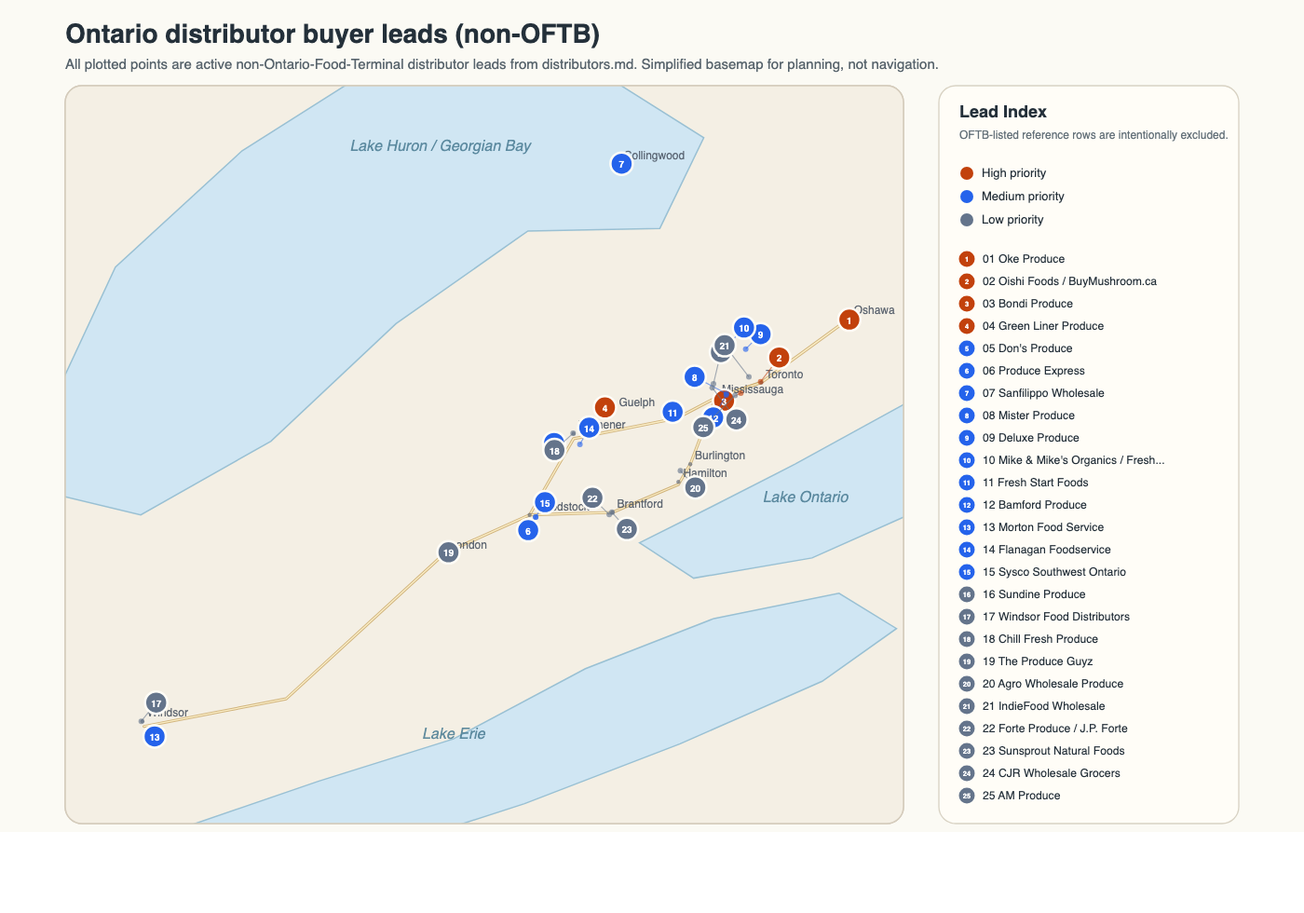
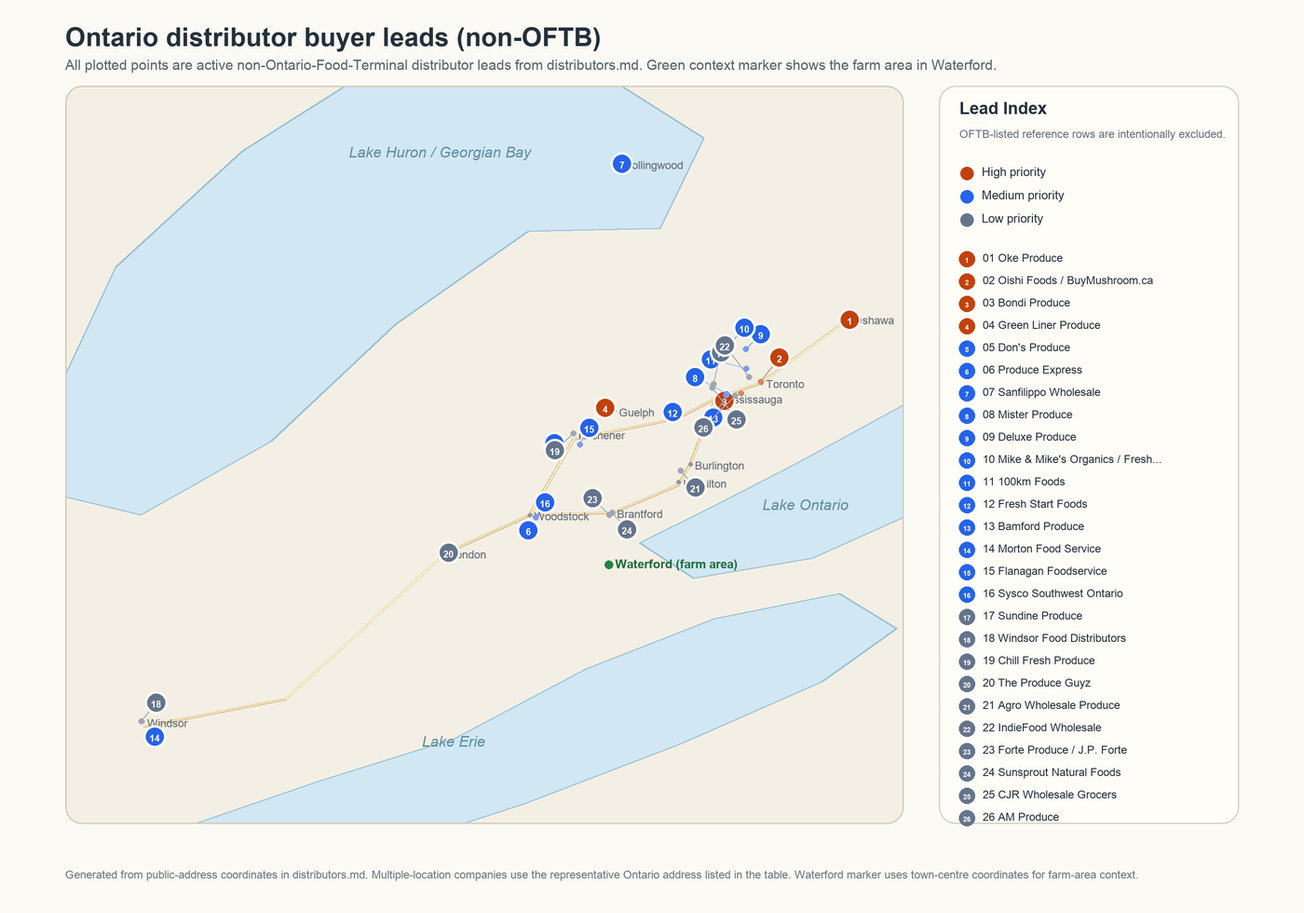
Update distributor map and leads

diff --git a/.agents/skills/make-map-plot/scripts/make_map_plot.py b/.agents/skills/make-map-plot/scripts/make_map_plot.py
@@ -1,15 +1,14 @@
 #!/usr/bin/env python3
 
-"""Render a static SVG map plot from a small JSON config.
+"""Render a static map plot from a small JSON config.
 
 Point records must provide:
 - coordinate: {"lat": number, "lon": number} or [lat, lon]
 - name: display name
 - category: category key used for marker style and legend
 
-The script writes SVG only. Render PNGs from the SVG with a browser or another
-project-approved renderer so the final image can live in the topic resources/
-directory while SVG scratch output stays under temp/.
+The script can write SVG and can write PNG directly with Pillow. Keep final
+document-facing PNGs in topic resources/ and intermediate SVGs under temp/.
 """
 
 from __future__ import annotations
@@ -40,6 +39,10 @@ def escape(value: object) -> str:
 
 def shorten(value: str, width: int) -> str:
     return escape(textwrap.shorten(value, width=width, placeholder="..."))
+
+
+def shorten_plain(value: str, width: int) -> str:
+    return textwrap.shorten(value, width=width, placeholder="...")
 
 
 def mercator_y(lat: float) -> float:
@@ -254,9 +257,18 @@ def render_svg(config: dict[str, Any]) -> str:
         for place in basemap.get("places", []):
             lon, lat = parse_lon_lat_pair(place["coordinate"], "Basemap place")
             x, y = project(lon, lat)
-            parts.append(f'<circle cx="{x:.1f}" cy="{y:.1f}" r="2.2" fill="#6b7280" opacity="0.72" />')
+            radius = float(place.get("radius", 2.2))
+            fill = escape(place.get("fill", "#6b7280"))
+            opacity = float(place.get("opacity", 0.72))
+            label_dx = float(place.get("label_dx", 5))
+            label_dy = float(place.get("label_dy", -5))
+            font_size = int(place.get("font_size", 12))
+            font_weight = escape(place.get("font_weight", "400"))
+            label_fill = escape(place.get("label_fill", "#4b5563"))
+            label_opacity = float(place.get("label_opacity", 0.88))
+            parts.append(f'<circle cx="{x:.1f}" cy="{y:.1f}" r="{radius}" fill="{fill}" opacity="{opacity}" />')
             parts.append(
-                f'<text x="{x + 5:.1f}" y="{y - 5:.1f}" font-family="Helvetica, Arial, sans-serif" font-size="12" fill="#4b5563" opacity="0.88">{escape(place["name"])}</text>'
+                f'<text x="{x + label_dx:.1f}" y="{y + label_dy:.1f}" font-family="Helvetica, Arial, sans-serif" font-size="{font_size}" font-weight="{font_weight}" fill="{label_fill}" opacity="{label_opacity}">{escape(place["name"])}</text>'
             )
 
     for index, point in enumerate(points, start=1):
@@ -324,16 +336,229 @@ def render_svg(config: dict[str, Any]) -> str:
     return "\n".join(parts) + "\n"
 
 
+def render_png(config: dict[str, Any], output_path: Path) -> None:
+    try:
+        from PIL import Image, ImageDraw, ImageFont
+    except ImportError as exc:
+        raise RuntimeError("PNG rendering requires Pillow in the active Python environment") from exc
+
+    points = normalize_points(config["points"])
+    styles = category_styles(points, config)
+    category_order = sorted(styles, key=lambda category: (float(styles[category]["order"]), category))
+
+    scale = int(config.get("png_scale", 2))
+    width = int(config.get("width", 1400))
+    height = int(config.get("height", 980))
+    map_left = int(config.get("map_left", 70))
+    map_top = int(config.get("map_top", 92))
+    map_width = int(config.get("map_width", 900))
+    map_height = int(config.get("map_height", 792))
+    map_bottom = map_top + map_height
+    panel_left = int(config.get("panel_left", map_left + map_width + 38))
+    panel_top = int(config.get("panel_top", map_top))
+    panel_width = int(config.get("panel_width", width - panel_left - 70))
+    panel_height = int(config.get("panel_height", map_height))
+
+    def s(value: float) -> int:
+        return int(round(value * scale))
+
+    def color(value: object, alpha: float = 1.0) -> tuple[int, int, int, int]:
+        text = str(value).strip()
+        if text.startswith("#"):
+            text = text[1:]
+        if len(text) == 3:
+            text = "".join(ch * 2 for ch in text)
+        red = int(text[0:2], 16)
+        green = int(text[2:4], 16)
+        blue = int(text[4:6], 16)
+        return red, green, blue, max(0, min(255, int(round(alpha * 255))))
+
+    def font(size: int, weight: str = "400", italic: bool = False) -> Any:
+        candidates = []
+        if weight in {"700", "bold", "Bold"} and italic:
+            candidates = [
+                "/System/Library/Fonts/Supplemental/Arial Bold Italic.ttf",
+                "/Library/Fonts/Arial Bold Italic.ttf",
+            ]
+        elif weight in {"700", "bold", "Bold"}:
+            candidates = [
+                "/System/Library/Fonts/Supplemental/Arial Bold.ttf",
+                "/Library/Fonts/Arial Bold.ttf",
+                "/System/Library/Fonts/Supplemental/Arial.ttf",
+            ]
+        elif italic:
+            candidates = [
+                "/System/Library/Fonts/Supplemental/Arial Italic.ttf",
+                "/Library/Fonts/Arial Italic.ttf",
+                "/System/Library/Fonts/Supplemental/Arial.ttf",
+            ]
+        else:
+            candidates = [
+                "/System/Library/Fonts/Supplemental/Arial.ttf",
+                "/Library/Fonts/Arial.ttf",
+            ]
+        for candidate in candidates:
+            try:
+                return ImageFont.truetype(candidate, s(size))
+            except OSError:
+                continue
+        return ImageFont.load_default(size=s(size))
+
+    def text_size(draw: Any, text: str, text_font: Any) -> tuple[float, float]:
+        bbox = draw.textbbox((0, 0), text, font=text_font)
+        return bbox[2] - bbox[0], bbox[3] - bbox[1]
+
+    lats = [float(point["lat"]) for point in points]
+    lons = [float(point["lon"]) for point in points]
+    bounds = config.get("bounds")
+    if isinstance(bounds, dict):
+        lat_min = float(bounds["lat_min"])
+        lat_max = float(bounds["lat_max"])
+        lon_min = float(bounds["lon_min"])
+        lon_max = float(bounds["lon_max"])
+    else:
+        lat_min = min(lats) - float(config.get("lat_padding", 0.35))
+        lat_max = max(lats) + float(config.get("lat_padding_top", 0.30))
+        lon_min = min(lons) - float(config.get("lon_padding", 0.45))
+        lon_max = max(lons) + float(config.get("lon_padding_right", 0.32))
+
+    merc_min = mercator_y(lat_min)
+    merc_max = mercator_y(lat_max)
+
+    def project(lon: float, lat: float) -> tuple[float, float]:
+        x = map_left + (lon - lon_min) * map_width / (lon_max - lon_min)
+        y = map_bottom - (mercator_y(lat) - merc_min) * map_height / (merc_max - merc_min)
+        return x, y
+
+    image = Image.new("RGB", (s(width), s(height)), "#fbfaf4")
+    draw = ImageDraw.Draw(image)
+
+    title_font = font(28, "700")
+    subtitle_font = font(15)
+    draw.text((s(map_left), s(24)), str(config.get("title", "Map plot")), font=title_font, fill="#24303a")
+    subtitle = config.get("subtitle")
+    if subtitle:
+        draw.text((s(map_left), s(61)), str(subtitle), font=subtitle_font, fill="#57636c")
+
+    map_layer = Image.new("RGBA", (s(width), s(height)), (0, 0, 0, 0))
+    map_draw = ImageDraw.Draw(map_layer)
+    map_box = [s(map_left), s(map_top), s(map_left + map_width), s(map_top + map_height)]
+    map_draw.rounded_rectangle(map_box, radius=s(18), fill=color("#f4efe4"), outline=color("#d4cbbb"), width=s(1.5))
+
+    basemap = config.get("basemap", {})
+    if isinstance(basemap, dict):
+        for polygon in basemap.get("polygons", []):
+            coords = [(s(x), s(y)) for x, y in [project(*parse_lon_lat_pair(point, "Basemap polygon point")) for point in polygon["points"]]]
+            map_draw.polygon(coords, fill=color(polygon.get("fill", "#cfe6f4"), float(polygon.get("opacity", 0.96))))
+            map_draw.line(coords + [coords[0]], fill=color(polygon.get("stroke", "#96bfd3")), width=s(float(polygon.get("stroke_width", 1.5))), joint="curve")
+
+        for line in basemap.get("lines", []):
+            coords = [(s(x), s(y)) for x, y in [project(*parse_lon_lat_pair(point, "Basemap line point")) for point in line["points"]]]
+            map_draw.line(coords, fill=color(line.get("stroke", "#c7a35f"), float(line.get("opacity", 0.78))), width=s(float(line.get("stroke_width", 3.2))), joint="curve")
+            if "inner_stroke" in line:
+                map_draw.line(coords, fill=color(line["inner_stroke"], float(line.get("inner_opacity", 0.9))), width=s(float(line.get("inner_stroke_width", 1.3))), joint="curve")
+
+        for label in basemap.get("labels", []):
+            lon, lat = parse_lon_lat_pair(label["coordinate"], "Basemap label")
+            x, y = project(lon, lat)
+            label_font = font(int(label.get("font_size", 16)), italic=label.get("font_style", "italic") == "italic")
+            label_text = str(label["name"])
+            label_width, label_height = text_size(map_draw, label_text, label_font)
+            map_draw.text((s(x) - label_width / 2, s(y) - label_height / 2), label_text, font=label_font, fill=color(label.get("fill", "#4a7c93"), float(label.get("opacity", 0.86))))
+
+        for place in basemap.get("places", []):
+            lon, lat = parse_lon_lat_pair(place["coordinate"], "Basemap place")
+            x, y = project(lon, lat)
+            radius = float(place.get("radius", 2.2))
+            place_fill = place.get("fill", "#6b7280")
+            opacity = float(place.get("opacity", 0.72))
+            label_dx = float(place.get("label_dx", 5))
+            label_dy = float(place.get("label_dy", -5))
+            font_size = int(place.get("font_size", 12))
+            font_weight = str(place.get("font_weight", "400"))
+            label_fill = place.get("label_fill", "#4b5563")
+            label_opacity = float(place.get("label_opacity", 0.88))
+            map_draw.ellipse([s(x - radius), s(y - radius), s(x + radius), s(y + radius)], fill=color(place_fill, opacity))
+            map_draw.text((s(x + label_dx), s(y + label_dy)), str(place["name"]), font=font(font_size, font_weight), fill=color(label_fill, label_opacity))
+
+    for index, point in enumerate(points, start=1):
+        actual_x, actual_y = project(float(point["lon"]), float(point["lat"]))
+        marker_x = actual_x + float(point["marker_dx"])
+        marker_y = actual_y + float(point["marker_dy"])
+        fill = styles[str(point["category"])]["fill"]
+        if abs(marker_x - actual_x) > 0.1 or abs(marker_y - actual_y) > 0.1:
+            map_draw.line((s(actual_x), s(actual_y), s(marker_x), s(marker_y)), fill=color(fill, 0.58), width=s(1.1))
+            map_draw.ellipse([s(actual_x - 3), s(actual_y - 3), s(actual_x + 3), s(actual_y + 3)], fill=color(fill, 0.62))
+        map_draw.ellipse([s(marker_x - 12), s(marker_y - 12), s(marker_x + 12), s(marker_y + 12)], fill=color("#fffdf7"))
+        map_draw.ellipse([s(marker_x - 9.5), s(marker_y - 9.5), s(marker_x + 9.5), s(marker_y + 9.5)], fill=color(fill))
+        number_font = font(10, "700")
+        number = str(index)
+        number_width, number_height = text_size(map_draw, number, number_font)
+        map_draw.text((s(marker_x) - number_width / 2, s(marker_y) - number_height / 2), number, font=number_font, fill="#ffffff")
+
+    mask = Image.new("L", (s(width), s(height)), 0)
+    mask_draw = ImageDraw.Draw(mask)
+    mask_draw.rounded_rectangle(map_box, radius=s(18), fill=255)
+    image = Image.composite(Image.alpha_composite(image.convert("RGBA"), map_layer).convert("RGB"), image, mask)
+    draw = ImageDraw.Draw(image)
+    draw.rounded_rectangle(map_box, radius=s(18), outline="#d4cbbb", width=s(1.5))
+
+    panel_box = [s(panel_left), s(panel_top), s(panel_left + panel_width), s(panel_top + panel_height)]
+    draw.rounded_rectangle(panel_box, radius=s(18), fill="#fffdf7", outline="#d8d2c3", width=s(1.3))
+    draw.text((s(panel_left + 22), s(panel_top + 14)), str(config.get("index_title", "Index")), font=font(18, "700"), fill="#24303a")
+    index_note = config.get("index_note")
+    if index_note:
+        draw.text((s(panel_left + 22), s(panel_top + 45)), str(index_note), font=font(12), fill="#64717a")
+
+    legend_y = panel_top + 94
+    for offset, category in enumerate(category_order):
+        y = legend_y + offset * 25
+        style = styles[category]
+        draw.ellipse([s(panel_left + 23), s(y - 7), s(panel_left + 37), s(y + 7)], fill=style["fill"])
+        draw.text((s(panel_left + 46), s(y - 9)), str(style["label"]), font=font(13), fill="#24303a")
+
+    list_y = panel_top + 190
+    row_height = float(config.get("index_row_height", 24))
+    max_label_width = int(config.get("index_label_width", 42))
+    for index, point in enumerate(points, start=1):
+        y = list_y + (index - 1) * row_height
+        style = styles[str(point["category"])]
+        label = shorten_plain(f'{index:02d} {point["name"]}', max_label_width)
+        draw.ellipse([s(panel_left + 21.5), s(y - 12.5), s(panel_left + 38.5), s(y + 4.5)], fill=style["fill"])
+        item_font = font(7.5, "700")
+        index_text = str(index)
+        index_width, index_height = text_size(draw, index_text, item_font)
+        draw.text((s(panel_left + 30) - index_width / 2, s(y - 4) - index_height / 2), index_text, font=item_font, fill="#ffffff")
+        draw.text((s(panel_left + 47), s(y - 12)), label, font=font(12), fill="#24303a")
+
+    footer = config.get("footer")
+    if footer:
+        draw.text((s(map_left), s(height - 48)), str(footer), font=font(12), fill="#68757d")
+
+    if scale != 1:
+        image = image.resize((width, height), Image.Resampling.LANCZOS)
+    output_path.parent.mkdir(parents=True, exist_ok=True)
+    image.save(output_path)
+
+
 def main() -> None:
-    parser = argparse.ArgumentParser(description="Render a generic category map plot SVG from JSON.")
+    parser = argparse.ArgumentParser(description="Render a generic category map plot from JSON.")
     parser.add_argument("config", type=Path, help="Path to map config JSON")
-    parser.add_argument("--output-svg", type=Path, required=True, help="SVG path to write")
+    parser.add_argument("--output-svg", type=Path, help="SVG path to write")
+    parser.add_argument("--output-png", type=Path, help="PNG path to write using Pillow")
     args = parser.parse_args()
 
+    if not args.output_svg and not args.output_png:
+        parser.error("At least one of --output-svg or --output-png is required")
+
     config = load_config(args.config)
-    args.output_svg.parent.mkdir(parents=True, exist_ok=True)
-    args.output_svg.write_text(render_svg(config), encoding="utf-8")
-    print(f"Wrote {args.output_svg}")
+    if args.output_svg:
+        args.output_svg.parent.mkdir(parents=True, exist_ok=True)
+        args.output_svg.write_text(render_svg(config), encoding="utf-8")
+        print(f"Wrote {args.output_svg}")
+    if args.output_png:
+        render_png(config, args.output_png)
+        print(f"Wrote {args.output_png}")
 
 
 if __name__ == "__main__":

diff --git a/distribution/distributors.md b/distribution/distributors.md
@@ -30,6 +30,7 @@ Map note: this is an Ontario-only rough map of the active non-OFTB distributor l
 | [Mister Produce](https://www.misterproduce.com/)                                                                    | Medium         | [Map](https://www.google.com/maps/search/?api=1&query=Mister+Produce+1290+Blundell+Road+Mississauga+ON); 1290 Blundell Road, Mississauga, ON L4Y 1M5 ([source](https://www.misterproduce.com/contact-us/))                                                                                                      | Ontario foodservice market ([source](https://www.misterproduce.com/))                                                                                                                | One of Ontario's largest privately owned fresh food distributors serving restaurants, hotels, caterers, schools, universities, sports venues, and institutions ([source](https://www.misterproduce.com/))                                                                                                                                                                         | White, brown, button, shiitake, and portobello from the public home-delivery product list PDF ([source](https://www.misterproduce.com/wp-content/uploads/2024/08/MisterProduce_HomeDelivery_ProductsList.pdf))                                                         | 416-252-9191                   | `misterproduce@ica.net`                                                 |                                                                                                                                                                                               | Sales will forward me to Zack. They currently buy from OFT. Asked their volume, she said she don't know.<br>Camille (437-248-1992) replied me and give me Zack's email (Zgoodma@gmail.com), who handles mushroom purchases                                                                                                                                                                                                                                                                                                    |
 | [Deluxe Produce](https://deluxeproduce.com/)                                                                        | Medium         | [Map](https://www.google.com/maps/search/?api=1&query=Deluxe+Produce+40+Magnetic+Drive+Toronto+ON); 40 Magnetic Drive, Unit 1, Toronto, ON M3J 2C4 ([source](https://deluxeproduce.com/))                                                                                                                       | GTA ([source](https://deluxeproduce.com/))                                                                                                                                           | B2B wholesale produce supplier serving restaurants, hotels, caterers, schools, healthcare, and grocery chains with daily GTA delivery ([source](https://deluxeproduce.com/))                                                                                                                                                                                                      | Cremini mushrooms are publicly named on the homepage SKU stream; no broader public mushroom assortment page found ([source](https://deluxeproduce.com/))                                                                                                               | 416-356-4420                   | `orderdesk@deluxeproduce.com`; `info@deluxeproduce.com`                 |                                                                                                                                                                                               | called tuesday and friday (may 1) no one picking up                                                                                                                                                                                                                                                                                                                                                                                                                                                                           |
 | [Mike & Mike's Organics / Fresh Direct Produce Group](https://mikeandmikes.com/contact-us/)                         | Medium         | [Map](https://www.google.com/maps/search/?api=1&query=Mike+and+Mike%27s+Organics+1+Royal+Gate+Blvd+Woodbridge+ON); 1 Royal Gate Blvd, Unit F, Woodbridge, ON L4L 8Z7 ([source](https://mikeandmikes.com/contact-us/))                                                                                           | Ontario retail, regional retail, distribution centre, independent natural-food, home-delivery, and foodservice customers ([source](https://ca.linkedin.com/company/mike-and-mike-s)) | Importer, wholesaler, and distributor of organic and conventional fresh fruits and vegetables; acquired by Fresh Direct Produce Group ([source](https://peprofessional.com/2020/07/hkw-closes-third-fresh-direct-add/))                                                                                                                                                           | Fresh Direct's public catalog has a CompOrg shiitake 6x113 g SKU, but no current Mike & Mike's Ontario shiitake SKU was found on public pages checked ([source](https://freshdirectproduce.com/product/comporg-mushrooms-shiitake-6x113g-2/))                          | 416-987-2772                   | `info@mikeandmikes.com`                                                 | New Apr 28 lead. Use as an Ontario organic retail-distribution call, not as a confirmed fresh shiitake buyer yet.                                                                             | Gonna skip this because it's import and organic                                                                                                                                                                                                                                                                                                                                                                                                                                                                               |
+| [100km Foods](https://wholesale.100kmfoods.com/)                                                                    | Medium         | [Map](https://www.google.com/maps/search/?api=1&query=100km+Foods+19+Colville+Road+Toronto+ON); 19 Colville Road, Toronto, ON M6M 2Y2 ([source](https://supportontariomade.ca/retailer/toronto/100km-foods-inc))                                                                                                  | Toronto, GTA, Golden Horseshoe, Kitchener/Cambridge/Waterloo, and broader Southern Ontario delivery / pickup network ([source](https://wholesale.100kmfoods.com/about-us))          | Wholesale local-food distributor connecting chefs, restaurants, hotels, sports teams, retail stores, and other food businesses with Ontario farmers and producers ([source](https://wholesale.100kmfoods.com/contactus))                                                                                                                                                          | Public site has a Mushrooms category, but no visible mushroom SKUs were listed when checked; supplier interest needs confirmation ([source](https://wholesale.100kmfoods.com/mushrooms))                                                                               | 416-203-2164 ext. 220          | `info@100kmfoods.com`                                                   | New May 1 lead. Strong local-food channel fit; ask whether they currently buy shiitake/oyster and whether Waterford / Norfolk pickup is possible.                                             |                                                                                                                                                                                                                                                                                                                                                                                                                                                                                                                               |
 | [Fresh Start Foods](https://www.freshstartfoods.com/service-area/)                                                  | Medium         | [Map](https://www.google.com/maps/search/?api=1&query=Fresh+Start+Foods+2705+Durante+Way+Milton+ON); 2705 Durante Way, Milton, ON L9T 5J1; Ontario also has London and Ottawa locations ([source](https://www.freshstartfoods.com/service-area/))                                                               | National produce network with Ontario locations in Milton, London, and Ottawa ([source](https://www.freshstartfoods.com/service-area/))                                              | Fresh produce supplier for foodservice and retail customers; sources whole and fresh-cut produce locally and globally ([source](https://www.freshstartfoods.com/wholesale-produce/))                                                                                                                                                                                              | No public shiitake or mushroom assortment found on pages checked; general whole produce sourcing only ([source](https://www.freshstartfoods.com/wholesale-produce/))                                                                                                   | 905-878-9000                   | `fsfemilton@freshstartfoods.com`                                        | New Apr 28 lead. Worth a buyer-development call because Milton and London locations bracket Brantford/Waterford, but mushroom fit is unconfirmed.                                             | called 5.1, weird that their phone line is broken?                                                                                                                                                                                                                                                                                                                                                                                                                                                                            |
 | [Gordon Food Service Ontario](https://gfs.ca/en-ca/our-markets/locations/)                                          | Medium         | [Map](https://www.google.com/maps/search/?api=1&query=Gordon+Food+Service+2999+James+Snow+Parkway+Milton+ON); Milton DC: 2999 James Snow Parkway, Milton, ON L9T 5G4; Ajax DC: 200 Salem Rd North, Ajax, ON L1Z 1G1 ([source](https://gfs.ca/en-ca/our-markets/locations/))                                     | Ontario foodservice distribution from Milton and Ajax; part of a national Canadian distribution network ([source](https://gfs.ca/en-ca/our-markets/locations/))                      | Broadline foodservice distributor serving restaurants, health care, universities, hotels, stadiums, and other foodservice operations; Fresh Start Foods is a Gordon Food Service Specialty Company for produce ([GFS source](https://gfs.ca/en-ca/delivery/ontario-milton/); [Fresh Start source](https://gfs.ca/en-ca/products-services/specialty-companies/fresh-start-foods/)) | No public Ontario fresh shiitake or oyster SKU found on pages checked; GFS publishes culinary content around shiitake, oyster, maitake, and other mushrooms, but buyer route likely needs confirmation ([source](https://gfs.ca/en-ca/ideas/make-room-for-mushrooms/)) | 905-864-3700 / 866-408-0123    | `ont-info@gfs.ca`                                                       | New May 1 broadline lead. Treat as a supplier-onboarding call and ask whether Ontario fresh mushrooms are bought through GFS directly, Fresh Start Foods, or another approved produce vendor. |                                                                                                                                                                                                                                                                                                                                                                                                                                                                                                                               |
 | [Bamford Produce](https://bamfordproduce.com/)                                                                      | Medium         | [Map](https://www.google.com/maps/search/?api=1&query=Bamford+Produce+2501-A+Stanfield+Road+Mississauga+ON); 2501-A Stanfield Rd, Mississauga, ON L4Y 1R6 ([source](https://bamfordproduce.com/))                                                                                                               | Delivery network bordered by London west, Kingston east, Bracebridge north, and Niagara Falls south ([source](https://bamfordproduce.com/))                                          | Large Ontario produce distributor selling conventional and organic produce by case, piece, and processed format; partners with local growers for restaurant and foodservice clients ([source](https://bamfordproduce.com/local/))                                                                                                                                                 | Brown / cremini, sliced, oyster, and portobello mushrooms are listed; no public shiitake SKU found on pages checked ([source](https://bamfordproduce.com/our-products/))                                                                                               | 905-615-9400 / 1-888-EAT-FRESH | `orders@bamfordproduce.com`                                             | New Apr 28 Southwestern Ontario scan lead. Good foodservice produce fit and confirmed mushroom category, but shiitake availability needs buyer confirmation.                                  | called 5.1 no one answers                                                                                                                                                                                                                                                                                                                                                                                                                                                                                                     |
@@ -78,11 +79,12 @@ Reference only under the current Gambles relationship.
   - Sysco Southwest Ontario
   - Sanfilippo Wholesale
   - Mike & Mike's Organics / Fresh Direct Produce Group
+  - 100km Foods
   - Fresh Start Foods
   - Gordon Food Service Ontario
   - Mister Produce
   - Deluxe Produce
-  Reason: These remain viable non-OFTB Ontario distributor leads, but the fit is more conditional: Don's, Produce Express, Morton, Flanagan, Sysco, and Gordon Food Service have strong Southwestern Ontario or Ontario foodservice coverage but need mushroom SKU or supplier-program confirmation, Bamford has public mushroom category evidence but not shiitake, Sanfilippo has an existing nearby mushroom source, Mike & Mike's and Fresh Start are broader produce distributors, and Mister / Deluxe need live SKU confirmation.
+  Reason: These remain viable non-OFTB Ontario distributor leads, but the fit is more conditional: Don's, Produce Express, Morton, Flanagan, Sysco, and Gordon Food Service have strong Southwestern Ontario or Ontario foodservice coverage but need mushroom SKU or supplier-program confirmation, Bamford has public mushroom category evidence but not shiitake, Sanfilippo has an existing nearby mushroom source, 100km Foods is a strong local-food channel but needs live mushroom demand confirmation, Mike & Mike's and Fresh Start are broader produce distributors, and Mister / Deluxe need live SKU confirmation.
 - Wave 3:
   - IndieFood Wholesale
   - Sundine Produce
@@ -109,6 +111,7 @@ Reference only under the current Gambles relationship.
 
 These are the closest distributor-style buyer models in this Ontario-only research set: companies with Ontario locations that source from growers or suppliers, then resell into restaurants, grocery, retail, or foodservice.
 
+- [100km Foods](https://wholesale.100kmfoods.com/): Toronto local-food distributor connecting Ontario farmers and producers with chefs, restaurants, hotels, sports teams, retail stores, and other food businesses; strong channel fit, but current shiitake/oyster demand needs confirmation.
 - [Agro Wholesale Produce](https://www.yellowpages.ca/bus/Ontario/Burlington/Agro-Wholesale-Produce-Ltd/3611900.html): Burlington/Hamilton-area fruit and vegetable wholesaler for restaurants and institutions; mushroom fit needs confirmation.
 - [Bamford Produce](https://bamfordproduce.com/): Ontario produce distributor with London-to-Niagara coverage and public oyster / mainstream mushroom evidence.
 - [Bondi Produce](https://bondiproduce.com/): Chef-focused Ontario foodservice distributor with public mushroom mentions in market reports.
@@ -141,7 +144,7 @@ These are the closest distributor-style buyer models in this Ontario-only resear
 
 - Prioritize Ontario distributor buyers with current public mushroom listings or recent public market mentions: Oke, J.E. Russell, Oishi, Gambles, Bondi, Green Liner, and Sanfilippo.
 - For Southwestern Ontario distributor outreach, call Don's Produce, Produce Express, Morton Food Service, Flanagan Foodservice, Bamford Produce, and Sysco Southwest Ontario. Lococo's and Nizam Produce are tracked in [supermarkets.md](supermarkets.md). Treat Forte Produce, Sunsprout, Agro Wholesale, Windsor Food Distributors, Chill Fresh Produce, The Produce Guyz, and CJR as quick-verification calls rather than full sales pursuits.
-- Confirm live SKU availability before outreach where the current public mushroom evidence is generic, indirect, or group-level only, especially for Don's Produce, Produce Express, Fresh Start Foods, Mister Produce, Deluxe Produce, Mike & Mike's / Fresh Direct Produce Group, Dom Amodeo Produce, F.G. Lister, Fresh Advancement, and Rite-Pak Produce.
+- Confirm live SKU availability before outreach where the current public mushroom evidence is generic, indirect, or group-level only, especially for Don's Produce, Produce Express, 100km Foods, Fresh Start Foods, Mister Produce, Deluxe Produce, Mike & Mike's / Fresh Direct Produce Group, Dom Amodeo Produce, F.G. Lister, Fresh Advancement, and Rite-Pak Produce.
 - Confirm vendor-onboarding requirements before pitching broadline distributors such as Sysco, Flanagan, Morton, and Gordon/Fresh Start channels; they may need insurance, food-safety audits, product specs, UPC/case specs, and approved-supplier paperwork before a local mushroom trial.
 - Treat AM Produce as a lower-confidence lead until you can confirm a current mushroom assortment with their sales team.
 - Treat IndieFood as a distribution / marketplace channel rather than a standard distributor buyer.

diff --git a/.agents/skills/make-map-plot/SKILL.md b/.agents/skills/make-map-plot/SKILL.md
@@ -13,7 +13,7 @@ Create practical map plots for this farm research repository. Keep final user-fa
 
 1. Identify the document, map purpose, and inclusion rules before plotting. For buyer lead maps, respect each file's scope rules, exclusions, and current relationship constraints.
 2. Put durable point/config data in the topic directory's `resources/` subdirectory. Each point must provide `coordinate`, `name`, and `category`.
-3. Use `scripts/make_map_plot.py` from this skill to render a temporary SVG from the JSON config. Store only durable, document-facing assets in `resources/`, usually a PNG referenced by markdown. Store intermediate SVGs, geocode caches, downloaded geographic data, render screenshots, and raw scratch outputs under `temp/<topic>/<plot-name>/`.
+3. Use `scripts/make_map_plot.py` from this skill to render the JSON config. Prefer its Pillow-backed `--output-png` path for durable PNGs. Use `--output-svg` when an editable/intermediate SVG is useful. Store only durable, document-facing assets in `resources/`, usually a PNG referenced by markdown. Store intermediate SVGs, geocode caches, downloaded geographic data, render screenshots, and raw scratch outputs under `temp/<topic>/<plot-name>/`.
 4. Do not invent locations. Use source addresses, cached coordinates, documented manual fallback coordinates, or current geocoding. If network geocoding is needed and sandbox DNS fails, request escalation for that command.
 5. Include a real geographic context layer: a basemap, simplified water/land/city/road layer, or other meaningful geography. A bare latitude-longitude grid is not enough unless the user explicitly asks for one.
 6. For dense maps, use numbered markers plus a side index instead of overlapping long labels. Include a legend and a short note that the map is for planning, not navigation.
@@ -53,7 +53,15 @@ Commit the generator, `resources/` assets, and markdown changes when appropriate
 
 ## Rendering
 
-First render SVG from config:
+Render a PNG directly with Python/Pillow:
+
+```bash
+.venv/bin/python .agents/skills/make-map-plot/scripts/make_map_plot.py \
+  /path/to/topic/resources/map_points.json \
+  --output-png /path/to/topic/resources/plot-name.png
+```
+
+Optionally render SVG from config:
 
 ```bash
 .venv/bin/python .agents/skills/make-map-plot/scripts/make_map_plot.py \
@@ -61,7 +69,7 @@ First render SVG from config:
   --output-svg /path/to/repo/temp/topic/plot-name/map.svg
 ```
 
-For an SVG-backed static plot, render with headless Chrome or another existing repo tool. Example:
+If the Pillow render is not sufficient for a specific graphic, an SVG-backed static plot can still be rendered with headless Chrome or another existing repo tool. Example:
 
 ```bash
 '/Applications/Google Chrome.app/Contents/MacOS/Google Chrome' \
